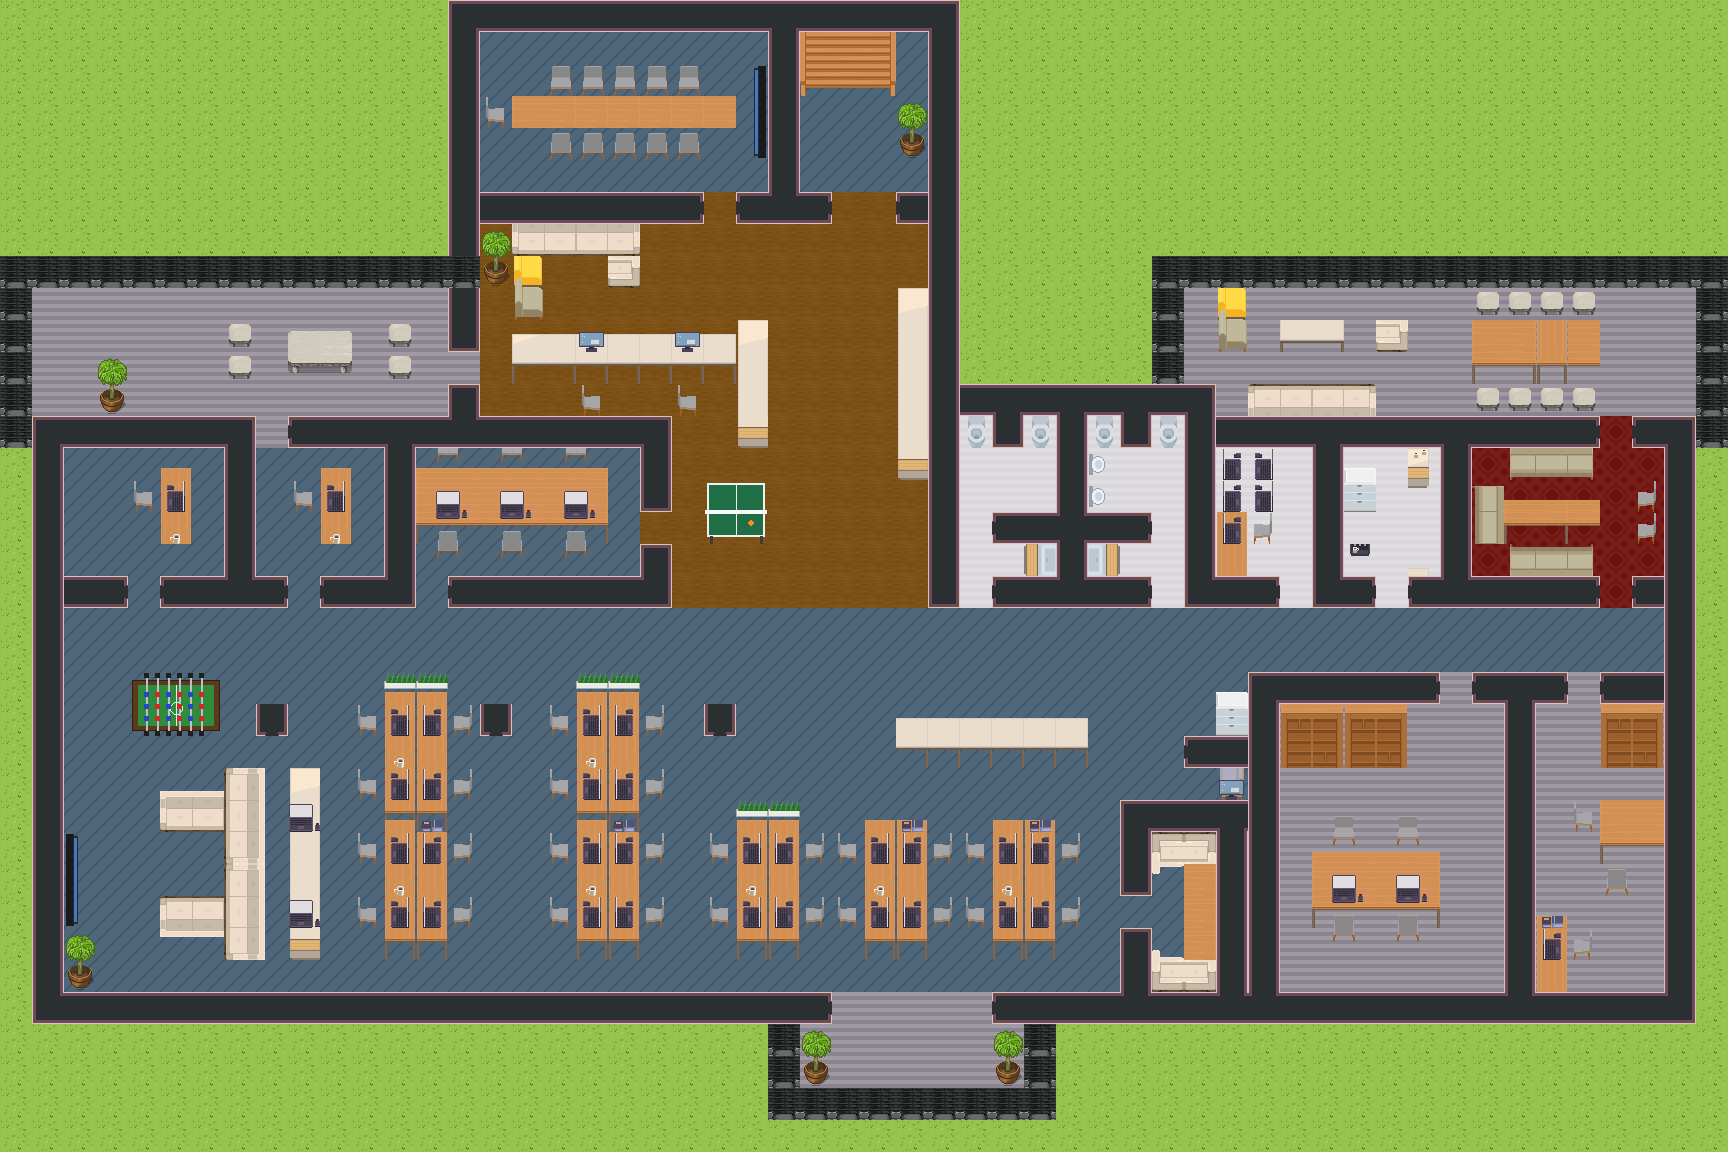
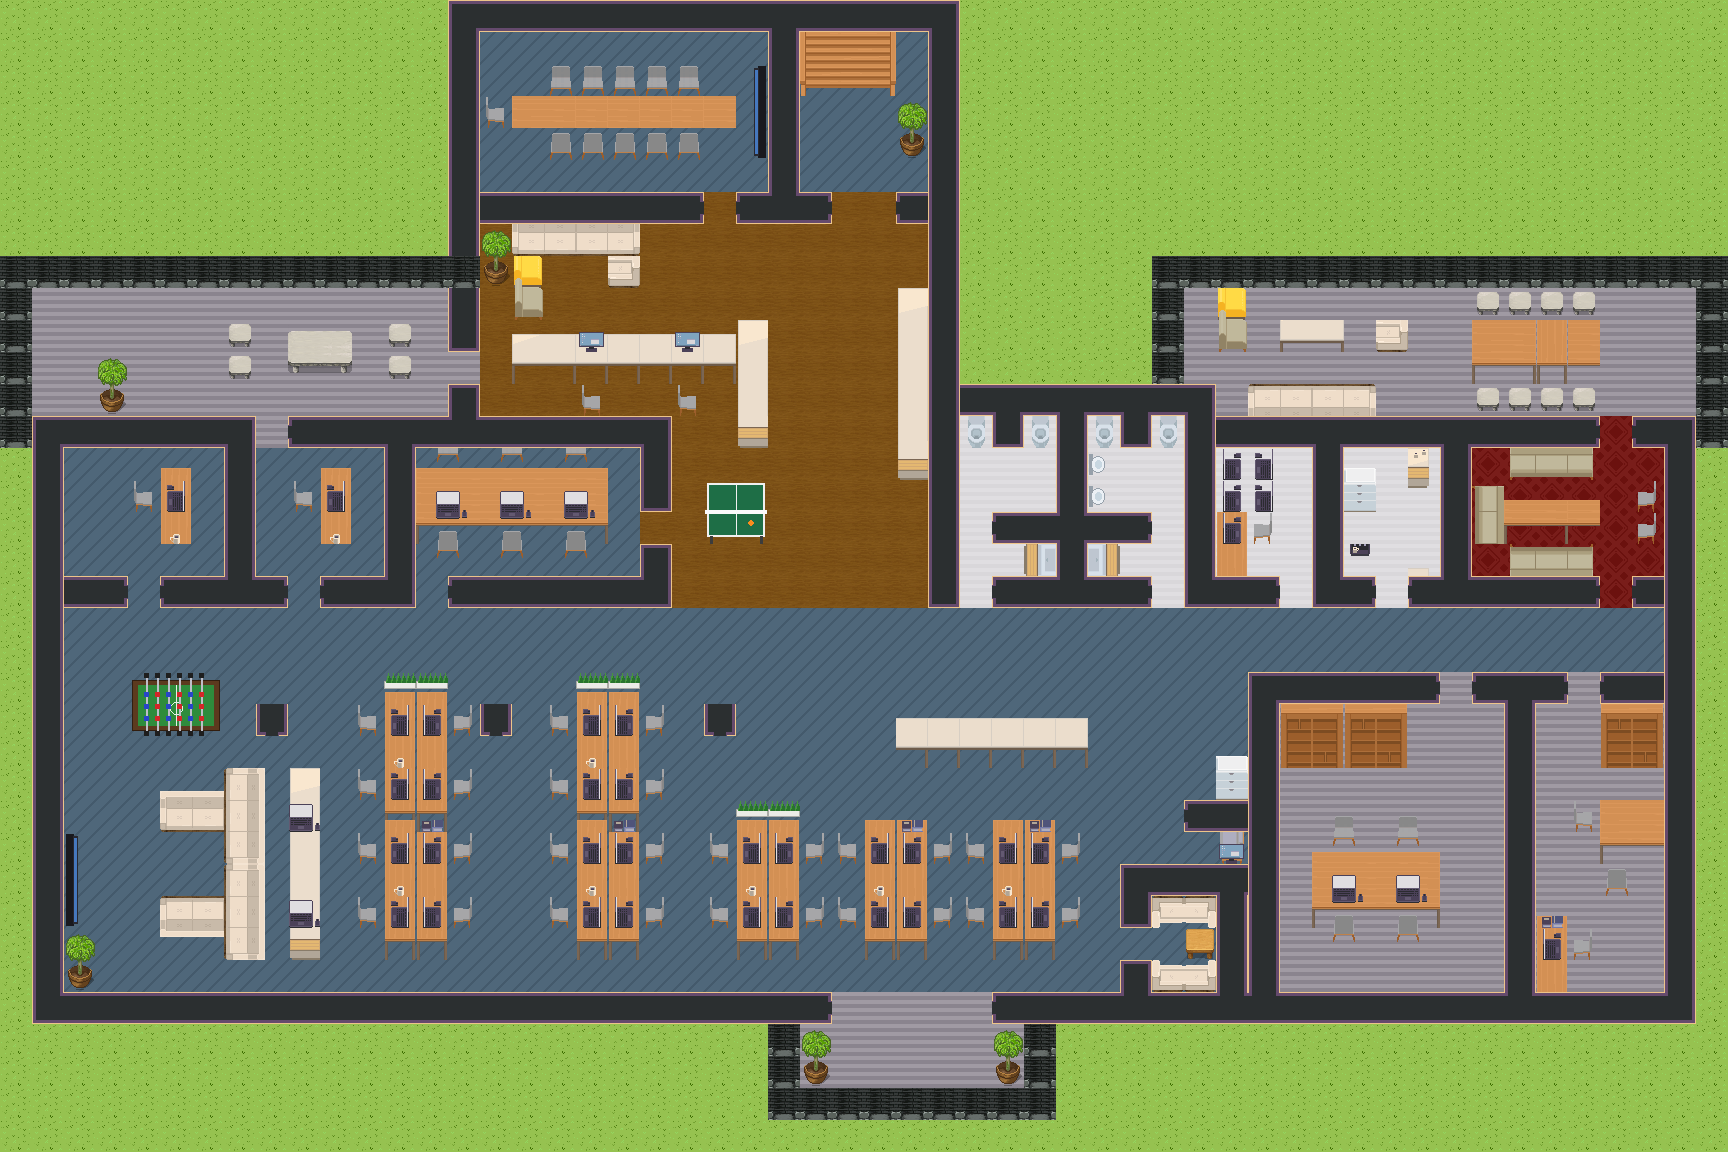
Small lounge: one-row sofas facing each other, square table with a free entry square beside it

Changed region(s): [[0.625, 0.5938, 0.75, 0.8438]]

diff --git a/build.py b/build.py
@@ -74,7 +74,7 @@ hwall(29, 52, 18); vwall(33, 12, 18); vwall(41, 13, 18); vwall(45, 13, 18)
 # right offices
 hwall(39, 52, 21); vwall(39, 21, 31); vwall(47, 21, 31)
 # right end of the open space: phone booth (1 person) and a small walled lounge-meeting corner
-hwall(37, 38, 23); hwall(35, 38, 25); vwall(35, 25, 30); vwall(38, 25, 30)   # booth (38,24) between two walls; lounge box below
+hwall(37, 38, 25); hwall(35, 38, 27); vwall(35, 27, 30); vwall(38, 27, 30)   # booth (38,26) between two walls; lounge box below
 # pillars in the open space
 for px in (8, 15, 22): WALL.add((px, 22))
 
@@ -98,7 +98,7 @@ door((20, 16))               # meeting <-> lounge
 door((30, 18), (36, 18), (40, 18), (43, 18), (50, 18))
 door((50, 13))               # red room <-> right balcony
 door((45, 21), (49, 21))
-door((35, 28))                         # small lounge entrance
+door((35, 29))                         # small lounge entrance
 door((27, 31), (28, 31))
 for x in range(21, 29): WALL.discard((x, 18))   # lounge open towards corridor
 
@@ -260,13 +260,12 @@ for y in (25, 28): put('furniture2', 9, y, 132)
 plant_big(2, 29)
 
 # right end of the open space: printer, phone booth, small lounge with two 2-seaters
-obj('furniture1', 38, 21, 136); obj('furniture1', 38, 22, 146)   # printer
-put('furniture1', 38, 24, 1471); put('furniture2', 38, 24, 110)       # booth: seat + screen
-for i, g in enumerate([1418, 1419, 1405, 1406]):                      # top sofa, facing down
-    put('furniture1', 36 + i % 2, 26 + i // 2, g | FLIP_Y)
-for y in (27, 28, 29): obj('furniture2', 37, y, 1568)                  # table, one tile wide (right-aligned), reaching both sofas
-for i, g in enumerate([1405, 1406, 1418, 1419]):                      # bottom sofa at the wall, facing up
-    put('furniture1', 36 + i % 2, 29 + i // 2, g)
+obj('furniture1', 38, 23, 136); obj('furniture1', 38, 24, 146)   # printer
+put('furniture1', 38, 26, 1471); put('furniture2', 38, 26, 110)       # booth: seat + screen
+# small lounge: sofa / square table (right) + free entry square / sofa, one row each
+put('furniture1', 36, 28, CUSTOM + 34); put('furniture1', 37, 28, CUSTOM + 35)   # top sofa, facing down
+obj('furniture1', 37, 29, 1702)                                                    # square table
+put('furniture1', 36, 30, CUSTOM + 26); put('furniture1', 37, 30, CUSTOM + 27)   # bottom sofa at the wall, facing up
 # right offices
 stamp(12, 9, 2, 5, 41, 25); stamp(16, 9, 2, 5, 43, 25)
 # rightmost office: desk bottom-left at the wall, small meeting table right-centre, cabinet above it

diff --git a/custom_tiles.py b/custom_tiles.py
@@ -71,4 +71,9 @@ for px in range(x0 + 2, x0 + T - 2, 5):
     d.polygon([(px, y0 + 10), (px + 2, y0 + 1), (px + 4, y0 + 10)], fill=(70, 150, 60))
     d.polygon([(px + 1, y0 + 10), (px + 3, y0 + 4), (px + 5, y0 + 10)], fill=(40, 115, 45))
 
+# 2-seat sofa (WA_Seats 1405/1406/1418/1419) squeezed into one tile row: tiles 26-27 facing up, 34-35 facing down
+two = seats.crop((4 * T, 2 * T, 6 * T, 4 * T))
+two = two.crop(two.getbbox()).resize((2 * T, T), Image.NEAREST)
+img.alpha_composite(two, at(26)); img.alpha_composite(two.transpose(Image.FLIP_TOP_BOTTOM), at(34))
+
 img.save('tilesets/elunic_custom.png')
